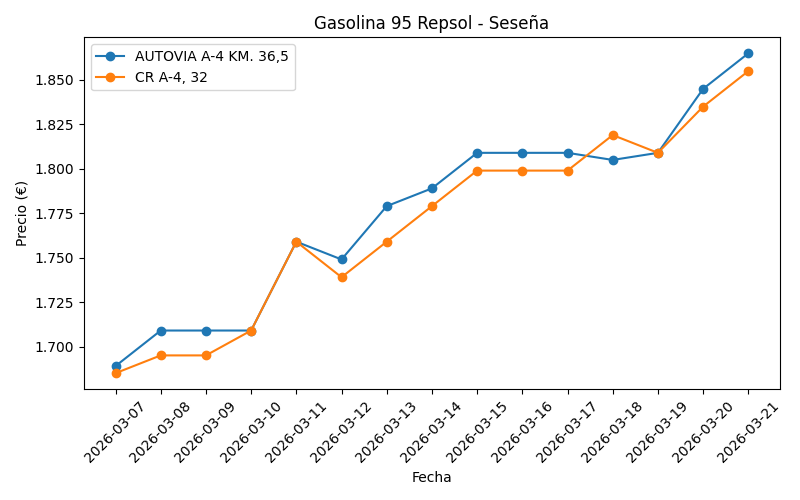
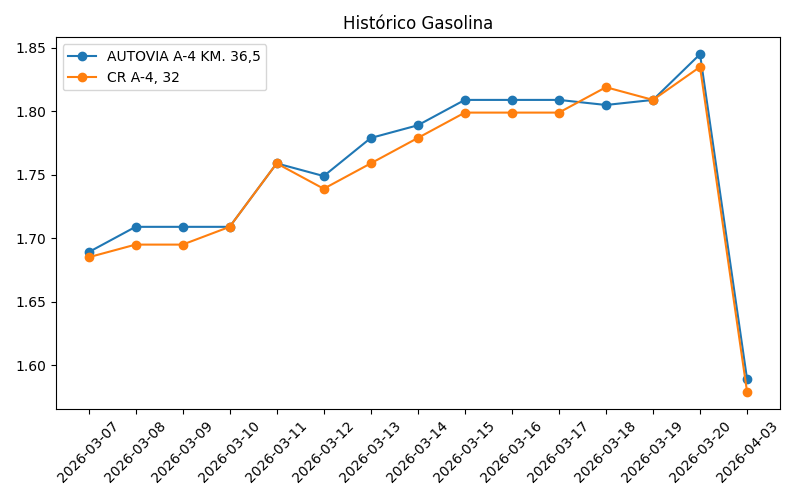
🚀 Update gasolina + energía (2026-04-03 08:32)

diff --git a/docs/js/script.js b/docs/js/script.js
@@ -1,10 +1,12 @@
 
-document.getElementById('barata').textContent = "💰 REPSOL - CR A-4, 32: 1.855 € ¡Mejor precio!";
-document.getElementById('luz').textContent = "0.106 €/kWh (🟡 Media)";
+document.getElementById('barata').textContent = "💰 REPSOL - 1.579€ 🚨 MUY BARATA";
+document.getElementById('luz').textContent = "0.135 €/kWh (🟡 Media) ⚖ Normal";
 document.getElementById('gas').textContent = "0.042 €/kWh";
 
+// TOP 3
+console.log("TOP 3 GASOLINERAS:\nREPSOL - 1.579€\nREPSOL - 1.589€\nREPSOL - 1.589€");
+
 const ts = Date.now();
-document.getElementById('csvlink').href = "precios_gasolina_2026-03-21.csv?v=" + ts;
-document.getElementById('csvlink').download = "precios_gasolina_2026-03-21.csv";
+document.getElementById('csvlink').href = "precios_gasolina_2026-04-03.csv?v=" + ts;
 document.getElementById('img_gasolina').src = "historial_gasolina.png?v=" + ts;
 document.getElementById('img_energia').src = "historial_energia.png?v=" + ts;
